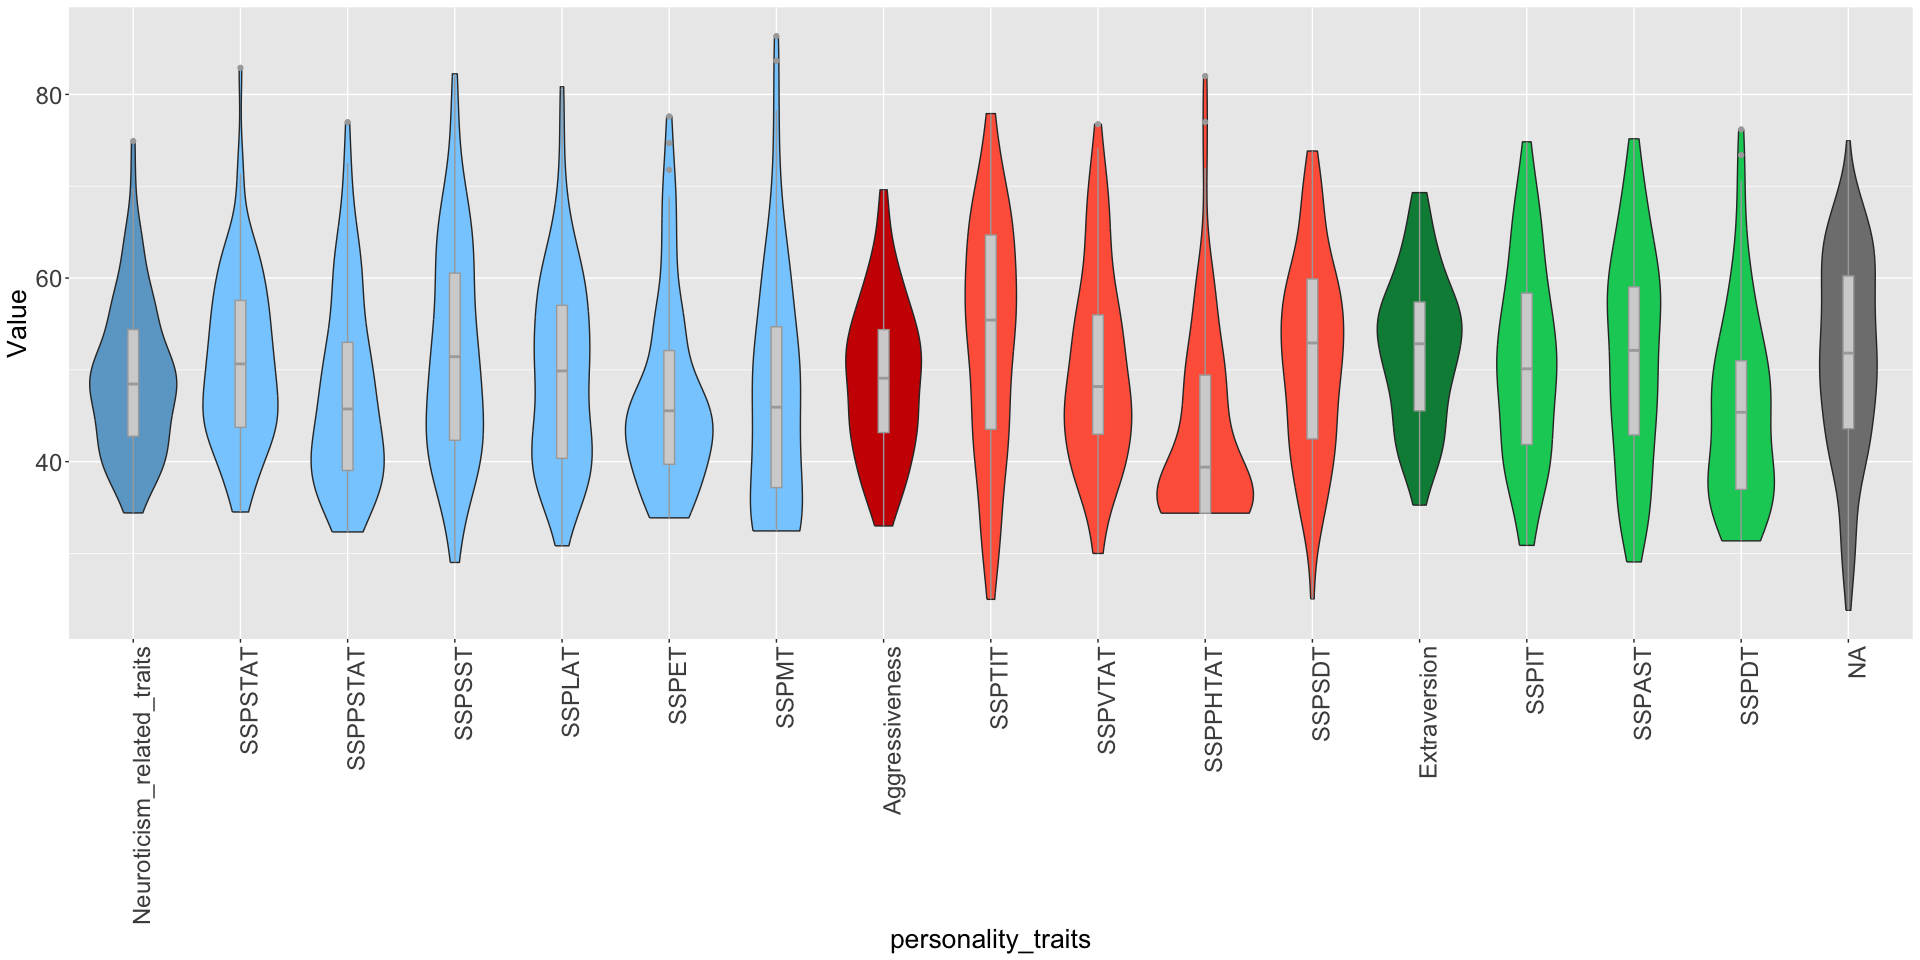
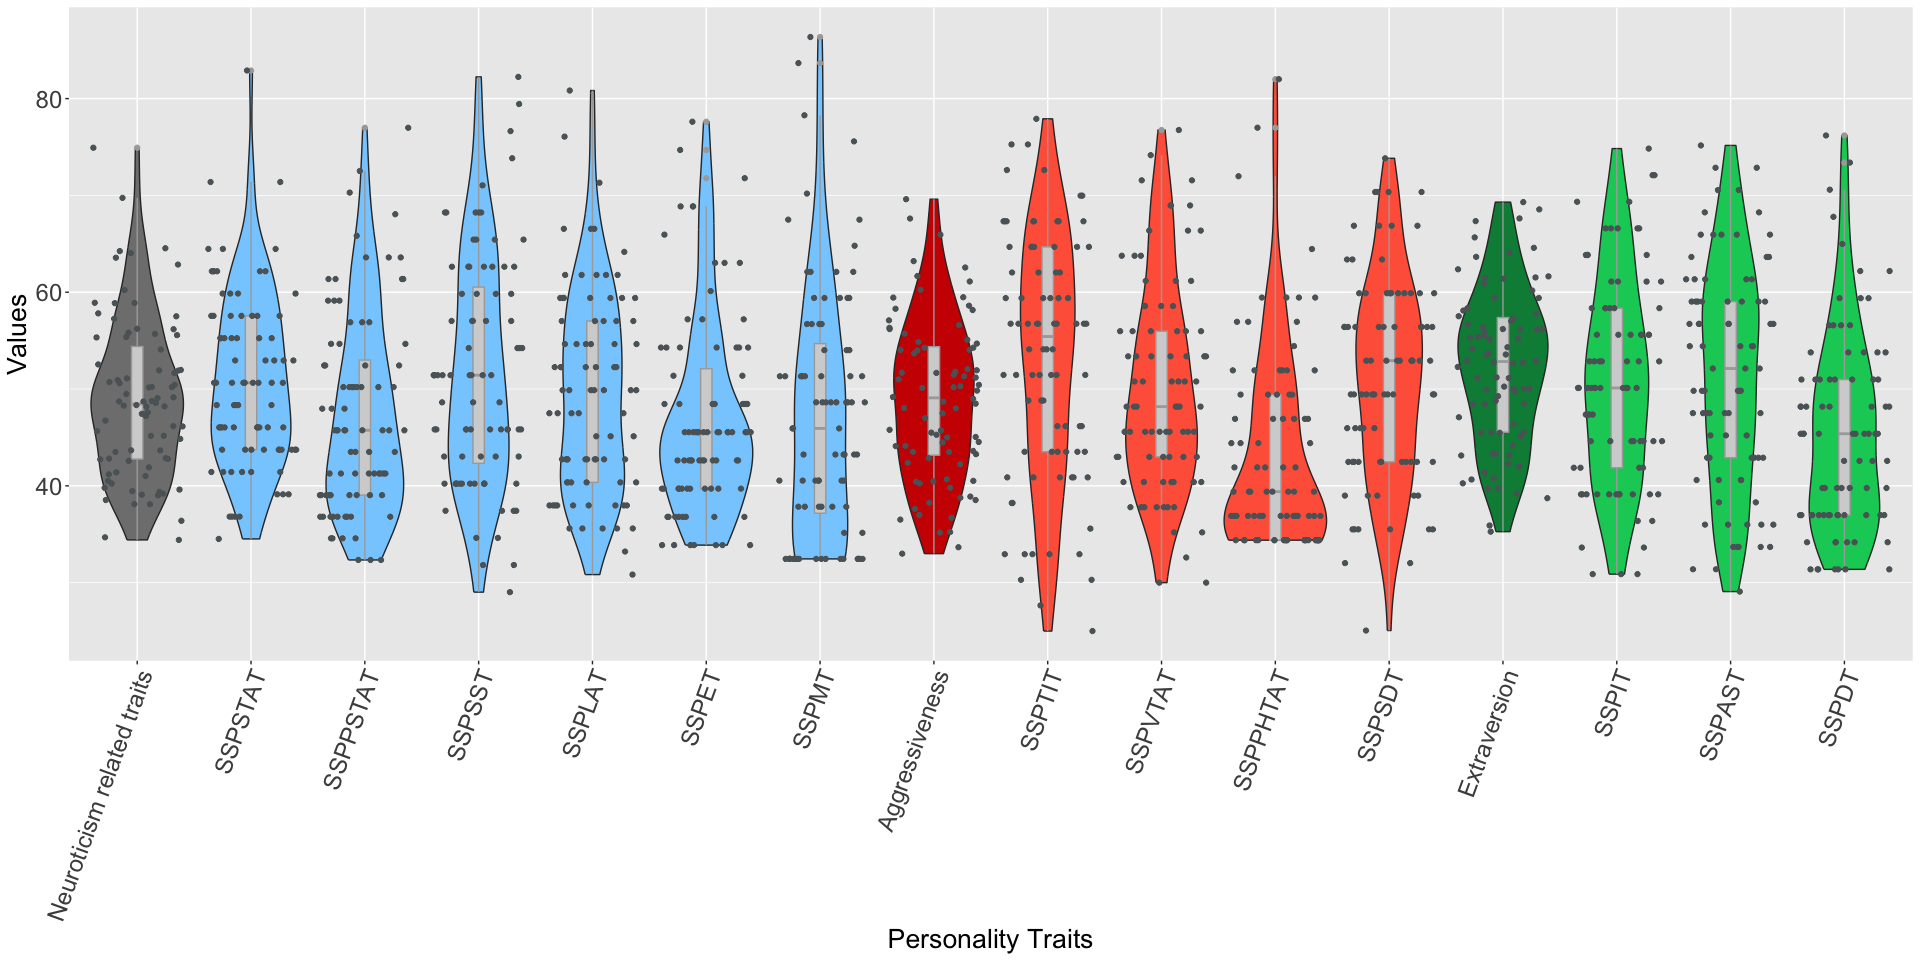
d

diff --git a/Projects/elbue/Davidprntz.md b/Projects/elbue/Davidprntz.md
@@ -31,12 +31,13 @@
     #Calculating 3 personality factor scores 
 
     survey_clean <- survey_clean %>% 
-      mutate(Neuroticism_related_traits = rowMeans(select(., SSPSTAT, SSPPSTAT, SSPSST,SSPLAT,SSPET,SSPMT), na.rm = TRUE)) %>%
+      mutate('Neuroticism related traits' = rowMeans(select(., SSPSTAT, SSPPSTAT, SSPSST,SSPLAT,SSPET,SSPMT), na.rm = TRUE)) %>%
       mutate(Aggressiveness = rowMeans(select(., SSPTIT, SSPVTAT, SSPPHTAT,SSPSDT_R), na.rm = TRUE)) %>% 
       mutate(Extraversion = rowMeans(select(., SSPIT, SSPAST, SSPDT_R), na.rm = TRUE))  
 
     #Data Visualization Goals violin plots
-    survey_clean_PT <- survey_clean %>% select(-c(1:113))
+    survey_clean_PT <- survey_clean %>% select(-c(1:113)) 
+    survey_clean_PT <- survey_clean_PT[, -c(14, 15)]
     survey_clean_long <- survey_clean_PT %>% 
       pivot_longer(
         cols = everything(), 
@@ -45,12 +46,12 @@
       )
 
     # Create a vector with the desired order of personality traits
-    rank <- c("Neuroticism_related_traits", "SSPSTAT", "SSPPSTAT", "SSPSST","SSPLAT","SSPET","SSPMT", 
+    rank <- c('Neuroticism related traits', "SSPSTAT", "SSPPSTAT", "SSPSST","SSPLAT","SSPET","SSPMT", 
                           "Aggressiveness", "SSPTIT", "SSPVTAT", "SSPPHTAT","SSPSDT", 
                           "Extraversion", "SSPIT", "SSPAST", "SSPDT")
     survey_clean_long$personality_traits <- factor(survey_clean_long$personality_traits, levels = rank)
 
-    colors <- c("Neuroticism_related_traits" = "skyblue3", 
+    colors <- c('Neuroticism related_traits' = "skyblue3", 
                 "SSPSTAT" = "skyblue1", 
                 "SSPPSTAT" = "skyblue1", 
                 "SSPSST" = "skyblue1",
@@ -66,7 +67,7 @@
                    "SSPIT" = "springgreen3", 
                    "SSPAST" = "springgreen3", 
                    "SSPDT" = "springgreen3")
-    rank <- c("Neuroticism_related_traits", "SSPSTAT", "SSPPSTAT", "SSPSST","SSPLAT","SSPET","SSPMT", 
+    rank <- c('Neuroticism related traits', "SSPSTAT", "SSPPSTAT", "SSPSST","SSPLAT","SSPET","SSPMT", 
                           "Aggressiveness", "SSPTIT", "SSPVTAT", "SSPPHTAT","SSPSDT", 
                           "Extraversion", "SSPIT", "SSPAST", "SSPDT")
     survey_clean_long$personality_traits <- factor(survey_clean_long$personality_traits, levels = rank)
